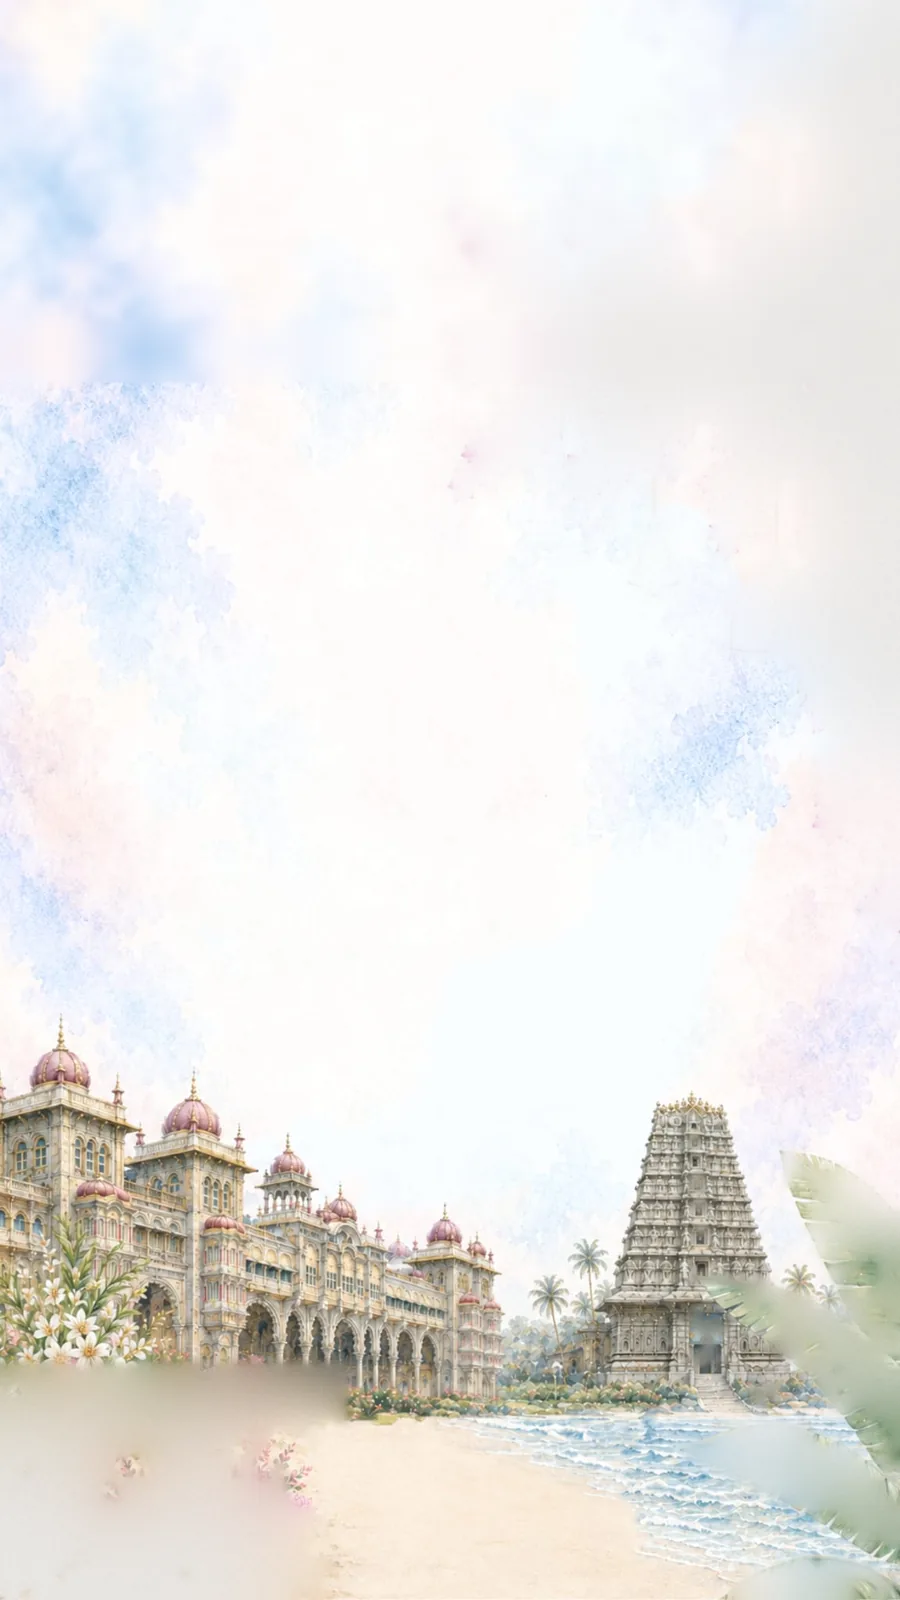
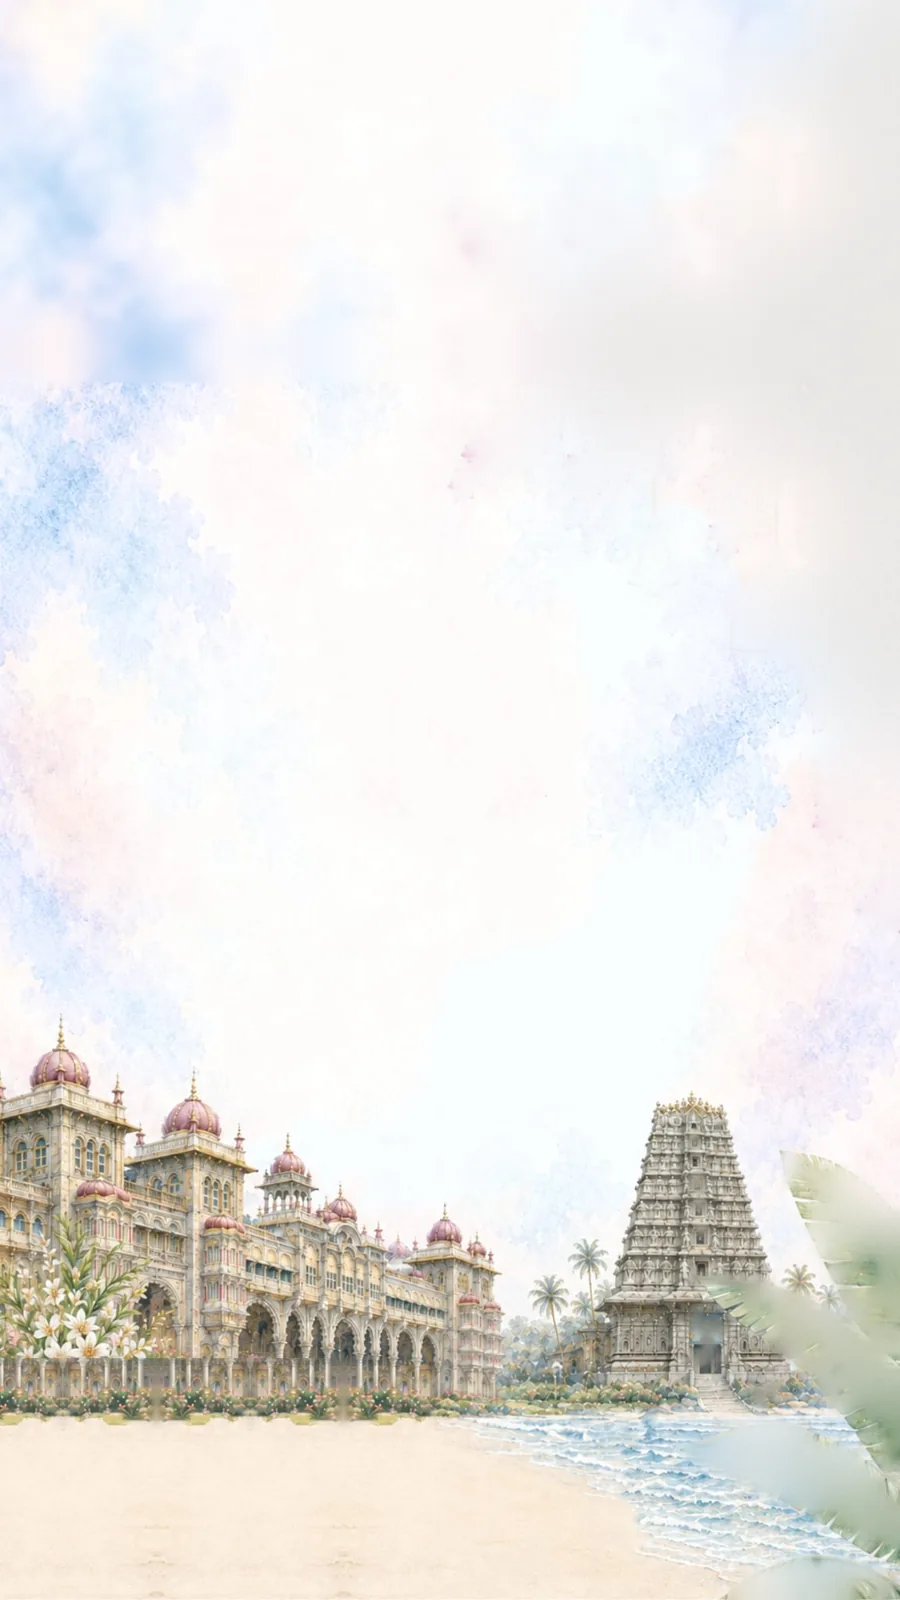
Fix smartphone scrolling issue

Changed region(s): [[0.0, 0.8438, 0.3733, 0.9688], [0.3422, 0.9688, 0.3733, 1.0]]

diff --git a/tools/build_assets.py b/tools/build_assets.py
@@ -101,6 +101,23 @@ def build_plate_a():
     o = np.array(out).astype(np.float32) + noise * soft
     out = Image.fromarray(np.clip(o, 0, 255).astype("uint8"))
 
+    # lower-left (where the brass stands + vases were): the diffusion repaint above leaves a smeary blur that peeks out
+    # around the foreground stand. Rebuild that corner from real texture instead: mirror-tile the garden strip + sand
+    # that sits just to the right of it (the water starts further right, so only the first 120 px are used).
+    Xr, Yr, PERIOD, HALF = 440, 1290, 240, 120
+    arr = np.array(out)
+    u = Xr - np.arange(Xr)
+    t = u % PERIOD
+    src_x = Xr + np.where(t <= HALF, t, PERIOD - t)
+    full = arr.copy()
+    full[Yr:, :Xr] = arr[Yr:][:, src_x]
+    pad = 60
+    mk = np.zeros((H + 2 * pad, W + 2 * pad), np.float32)
+    mk[pad + Yr:, :pad + Xr] = 1
+    mk = np.array(Image.fromarray((mk * 255).astype("uint8")).filter(ImageFilter.GaussianBlur(8))).astype(np.float32) / 255
+    mk = mk[pad:pad + H, pad:pad + W, None]
+    out = Image.fromarray((arr * (1 - mk) + full * mk).astype("uint8"))
+
     # ---- bell + lantern (gold) extracted from the ORIGINAL
     def extract(box, name, seed, mirror_left=False):
         c = img.crop(box)
